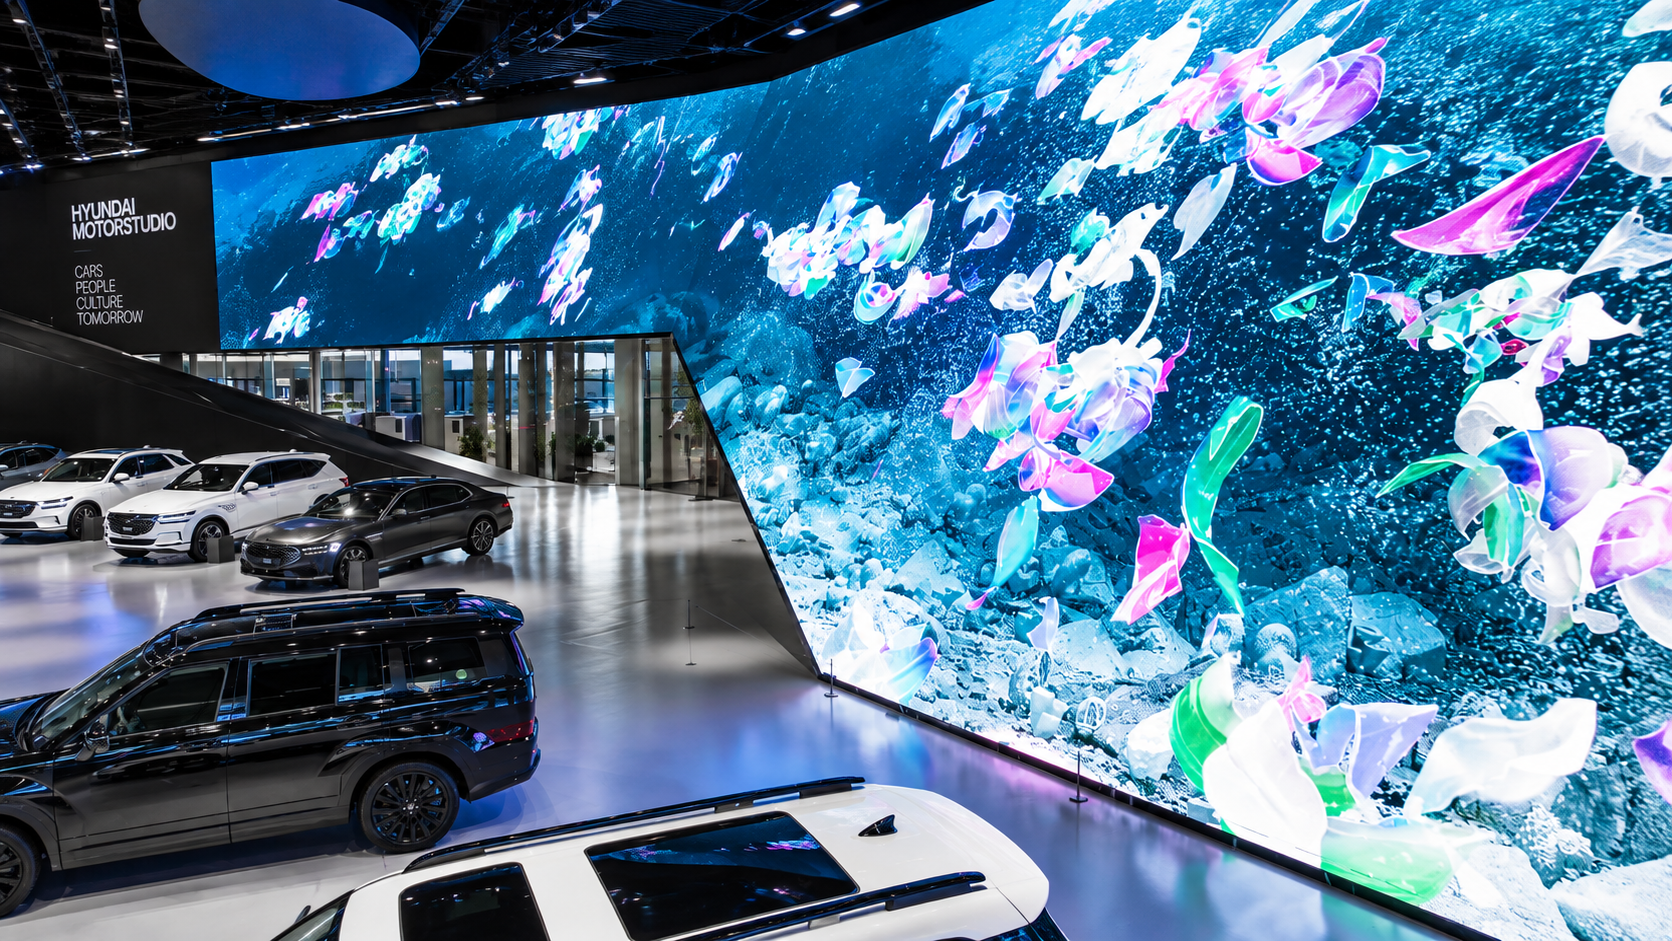
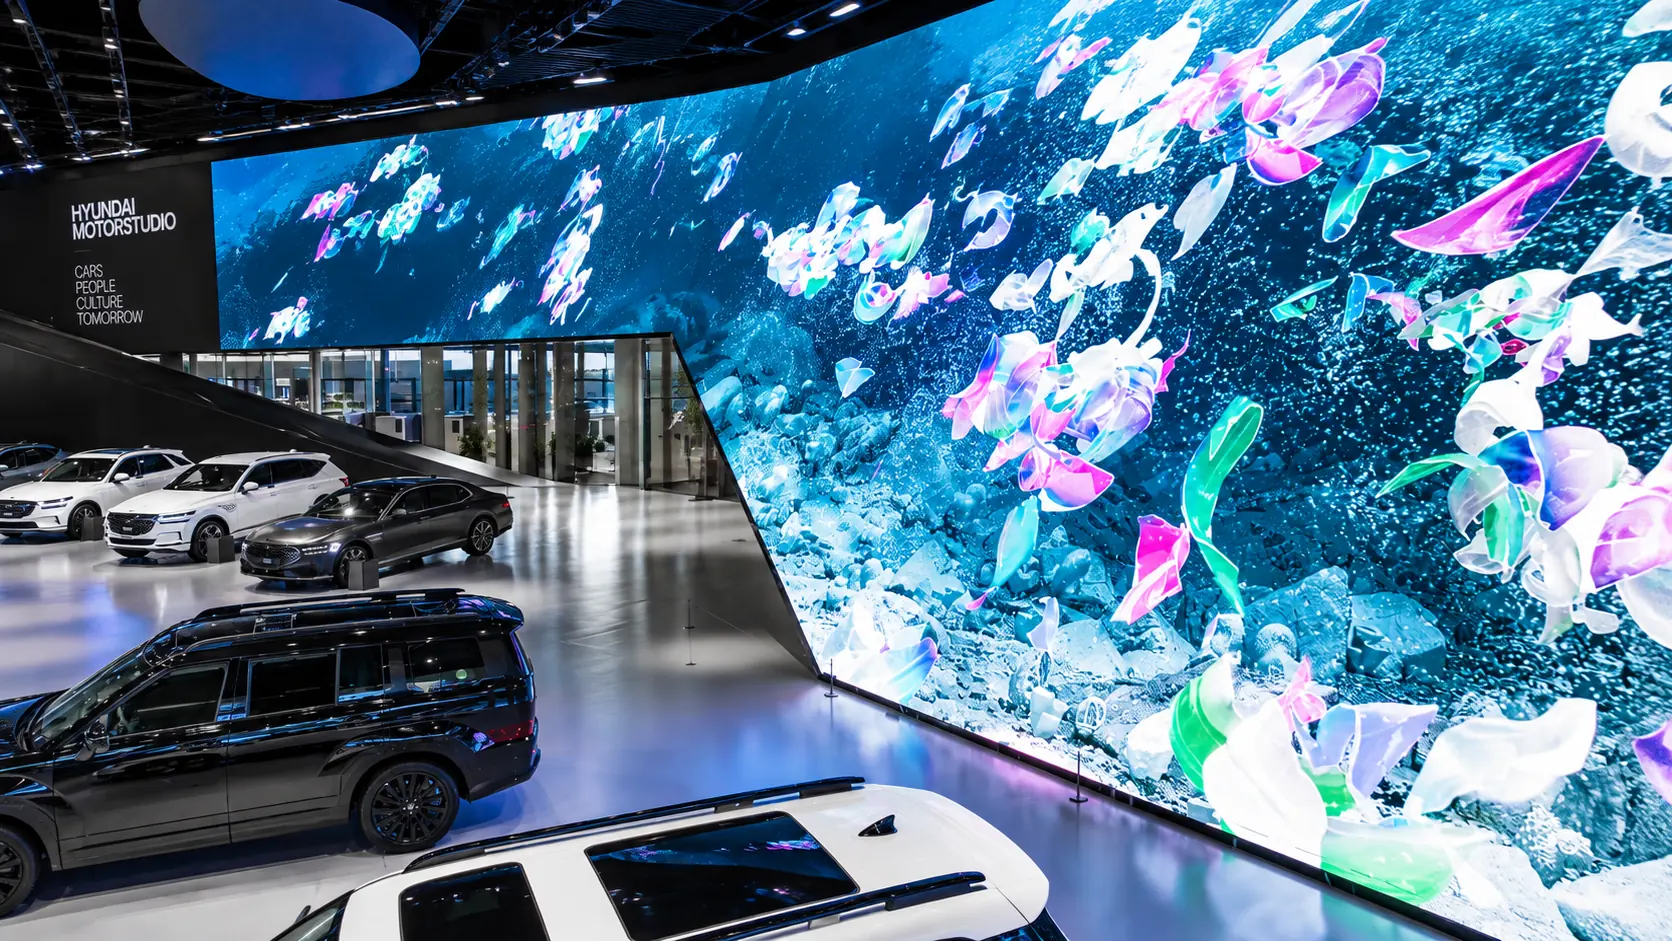
경험 찾기 배경·결과 카드 이미지 교체 및 WebP 최적화

diff --git a/src/components/experience/ExperienceFinder.jsx b/src/components/experience/ExperienceFinder.jsx
@@ -187,6 +187,8 @@ export default function ExperienceFinder() {
                     key={experienceType || 'default'}
                     src={hero.image}
                     alt=""
+                    width="1920"
+                    height="1080"
                     onError={(event) => {
                         if (!event.currentTarget.src.endsWith(experienceFinderHero.default.image))
                             event.currentTarget.src = experienceFinderHero.default.image;
@@ -228,7 +230,7 @@ export default function ExperienceFinder() {
                                 <div className="match-result__list">
                                     {recommendations.map(item => (
                                         <article className="match-result__card" key={item.id}>
-                                            {item.image && <img src={item.image} alt="" />}
+                                            {item.image && <img src={item.image} alt="" width="1920" height="1080" />}
                                             <div className="match-result__card-body">
                                                 <span className="match-result__category">{categoryLabels[item.category]}</span>
                                                 <h3>{item.title}</h3>

diff --git a/src/common/data/content.js b/src/common/data/content.js
@@ -34,8 +34,8 @@ export const exhibitions = [
 ];
 
 export const programs = [
-  { id: 'hydrogen-energy', title: '수소 에너지 탐험', english: 'HYDROGEN ENERGY JOURNEY', location: '고양', image: '/images/programs/hydrogen.svg', description: '수소 에너지와 미래 모빌리티를 직접 살펴보는 체험 프로그램' },
-  { id: 'design-workshop', title: '모빌리티 디자인 워크숍', english: 'MOBILITY DESIGN WORKSHOP', location: '부산', image: '/images/programs/design.svg', description: '나만의 시선으로 미래 이동 경험을 상상하고 만들어보세요.' },
+  { id: 'hydrogen-energy', title: '수소 에너지 탐험', english: 'HYDROGEN ENERGY JOURNEY', location: '고양', image: '/images/programs/hydrogen.webp', description: '수소 에너지와 미래 모빌리티를 직접 살펴보는 체험 프로그램' },
+  { id: 'design-workshop', title: '모빌리티 디자인 워크숍', english: 'MOBILITY DESIGN WORKSHOP', location: '부산', image: '/images/programs/design.webp', description: '나만의 시선으로 미래 이동 경험을 상상하고 만들어보세요.' },
 ];
 
 export const notices = [

diff --git a/src/common/data/experienceFinder.js b/src/common/data/experienceFinder.js
@@ -53,7 +53,7 @@ export const experienceTypeCategories = {
 export const experienceFinderHero = {
   default: {
     title: '나의 일상에 꼭 맞는 경험 추천',
-    image: '/images/locations/goyang.svg',
+    image: '/images/locations/main.webp',
   },
   mobility: {
     title: '차량을 직접 보고 운전해보고 싶어요',
